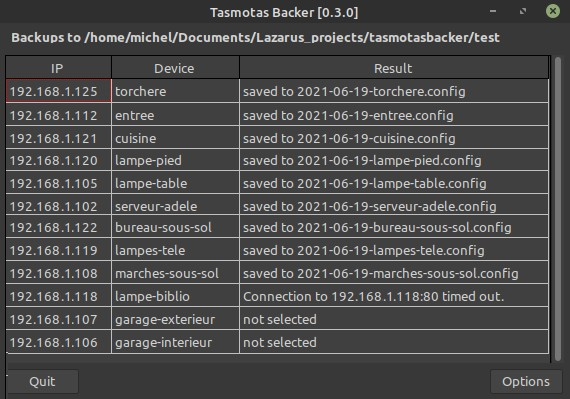
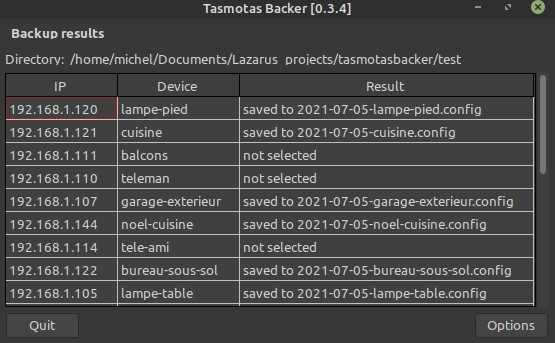
Bump to version 0.3.4 and release binaries

diff --git a/README.md b/README.md
@@ -1,8 +1,12 @@
-# tasmotasbacker
+# tasmotasbacker : Tamotas Backer
 
-A utility that can back up the configuration of all Tasmota devices that share a common MQTT topic. It uses the [Eclipse mosquitto](https://mosquitto.org/) library to communicate with the MQTT broker to obtain a list of IP addresses of Tasmota devices.
+**Version 0.3.4** (July 5, 2021)
+
+A utility that can back up the configuration of all Tasmota devices that share a common MQTT topic. It uses the [Eclipse mosquitto](https://mosquitto.org/) library to communicate with the MQTT broker to obtain a list of IP addresses of Tasmota devices connected to the broker.
 
 ![screenshot](images/backups_capture.jpg)
+
+
 
 <!-- The screen capture shows the message sent to the public `test.moquitto.org` broker and it's reply. In this example, the client is subscribed to the same topic used to send the message, which in many cases would not be done. -->
 
@@ -13,15 +17,15 @@ A utility that can back up the configuration of all Tasmota devices that share a
     - [1.2. Windows 10](#12-windows-10)
 - [2. Compiling](#2-compiling)
 - [3. Testing](#3-testing)
-- [4. Program Options](#4-program-options)
-- [5. WARNINGS](#5-warnings)
-    - [5.1. Beta Version](#51-beta-version)
-    - [5.2. Security](#52-security)
-- [6. Acknowledgment](#6-acknowledgment)
-- [7. Licence](#7-licence)
+- [4. Installation and Releases](#4-installation-and-releases)
+- [5. Program Options](#5-program-options)
+- [6. WARNINGS](#6-warnings)
+    - [6.1. Beta Version](#61-beta-version)
+    - [6.2. Security](#62-security)
+- [7. Acknowledgment](#7-acknowledgment)
+- [8. Licence](#8-licence)
 
 <!-- /TOC -->
-
 
 ## 1. Requirements
 
@@ -77,12 +81,15 @@ Ultimately, if a mosquitto MQTT broker is to be run on the system, it may make m
 
 ## 2. Compiling
 
-
 The repository is self-contained (except for the mosquitto library of course), so creating this tool should be straightforward. Clone the repository, start the Lazarus IDE, load the project, and compile. 
 
+When compiling a final version, it would be advisable to heed the following advice.
 
+1.  Modify the default password encryption key 'DEFAULT_KEY' in the `units/pwd.pas` file. That way it will not be easy for any one of the vast number of users of this application to read to gain access to a system to read the configuration file file and theu obtain the MQTT broker password. See 5.1. Security Warning for more details.
 
-When compiling a final version, it would be advisable to compile the release version. Select the `Release` build mode in `Project / Project Options / Compiler Options` in the Lazarus IDE. This will reduce the size of the executable by an order of magnitude.
+2.  Add an application icon. Select `Load Icon` in `Project / Project Options` in the Lazarus IDE. The `tasmotabacker.png` image the `images` directory can be used. .
+
+3.  Compile the release version. Select the `Release` build mode in `Project / Project Options / Compiler Options` in the Lazarus IDE. This will reduce the size of the executable by an order of magnitude.
 
 ## 3. Testing
 
@@ -90,8 +97,14 @@ The project was built with Lazarus 2.0.12 (Free Pascall 3.2.0) on a Mint 20.1 sy
 
 There is a [proof of concept project](poc) in the repository that verifies that a Tasmota configuration can be downloaded.
 
+## 4. Installation and Releases
 
-## 4. Program Options
+The current release contains a compressed Linux binary, `tasmotasbacker.gz` that runs on Mint 20.1. Extract the binary `tasmotasbacker` to a directory in the search path such as `~./local/bin/tasmotasbacker/`.  Copy the image `iamges/tasmotabacker.png` into the same directory. The `installation` directory contains a `tamostasbacker.desktop` file along with rudimentary instructions on how to install the utility in a Mint 20.1 Mate system. Presumably, installation in other Linux distributions would be more or less the same.
+
+Details about installation of an application in Windows are unfortunately not provided. A binary is provided in the `tasmotasbacker.zip` archive.
+
+
+## 5. Program Options
 
 
 In Linux, the program parameters are saved in the `ini` configuration file named  `~/.config/sigmdel/tasmotabacker/options.ini` where `~` is the user home directory. So fully expanded file name is
@@ -100,26 +113,25 @@ In Linux, the program parameters are saved in the `ini` configuration file named
 In Windows 10, the file is saved in the local `AppData` folder :
 <pre>  C:\Users\&lt;<i>user</i>&gt;\AppData\Local\sigmdel\tasmotasbacker\options.ini</pre>
 
-## 5. WARNINGS
+## 6. WARNINGS
 
-### 5.1. Beta Version
+### 6.1. Beta Version
 
-This is a beta version. While it does work, there are rough edges, notably
+This is a beta version. While it does work, there are rough edges.
 
-1. No retry when the download times out
-2. No report of what results were obtained. 
+Because there can be timeouts when obtaining the configuration of multiple Tasmota devices, two options have been added: a timeout option and a retry option. The default timeout, 4 seconds (4000 ms), usually works very well on a system with a 4th generation i7 CPU running Linux Mint 20.1. However the timeout had to be increased to 5 or even 6 seconds (5000-6000 ms) on a system with a 4th generation i5 running Windows 11 connected to the same local area network.
 
-Keep a record of configurations that were not completed because of a timeout to try saving them again. Perhaps by doing a screen capture of the `Backups` page. Or start another instance of the utility and select those devices only in a second attempt.
+If you compile the program, then there are a couple of directives in the `main.pas` unit (named `DEBUG_HTTP_REQUEST` and `DEBUG_BACKUP`) that will log some timing information if defined. This can be useful when trying to set default timeout and retries values. If using a binary release, then adjust the `Connect Attempts` and `Connect Timeout` fields in the `Backup parameters` sheet. 
 
-Because of frequent HTTP connection timeouts when obtaining the configuration file from multiple Tasmota devices, a timeout option has been added. The default timeout value is 3 seconds (3000 ms), try lengthening the delay to 5, 10 or more seconds if too many timeouts are encountered.
+### 6.2. Security
 
-### 5.2. Security
+Prior to version 0.3.3, the MQTT broker password was stored in plain text in the configuration file. Do not save the MQTT broker password in the `Options` screen in these older versions.
 
-The MQTT broker password is stored in plain text in the `ini` file. 
+A quick fix was added in version 0.3.3 to encrypt the password. A default encryption key is defined in `units\pwd.pas` which should be changed if compiling the program (see 2. Compiling for details). However those using a binary release can override the default key by storing a different key in a file named `key.txt` in the directory that contains the configuration file. The file should contain the key on one line and nothing else. Since this is a plain text file, this is not to be considered secured at all.
 
-**Do not save the MQTT broker password in the options page**
+Note that the MQTT user and password are transmitted in plain text over an HTTP connection, so truly secure handling of the MQTT password will have to wait until communication with the broker using the HTTPS protocol is implemented.
 
-## 6. Acknowledgment
+## 7. Acknowledgment
 
 Obviously, this utility would not have been possible without 
 
@@ -127,7 +139,9 @@ Obviously, this utility would not have been possible without
 - the [Eclipse Mosquitto](https://github.com/eclipse/mosquitto) project and 
 - the [mosquitto-p](https://github.com/chainq/mosquitto-p) project by Károly Balogh (chainq).
 
-## 7. Licence
+Useful information was obtained from others. Where possible, acknowledgment and references are provided in the source code.
+
+## 8. Licence
 
 The [Eclipse Mosquitto](https://github.com/eclipse/mosquitto) project is dual-licensed under the Eclipse Public License 2.0 and the
 Eclipse Distribution License 1.0.
